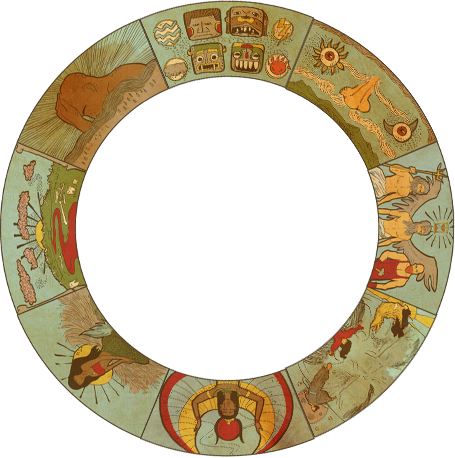
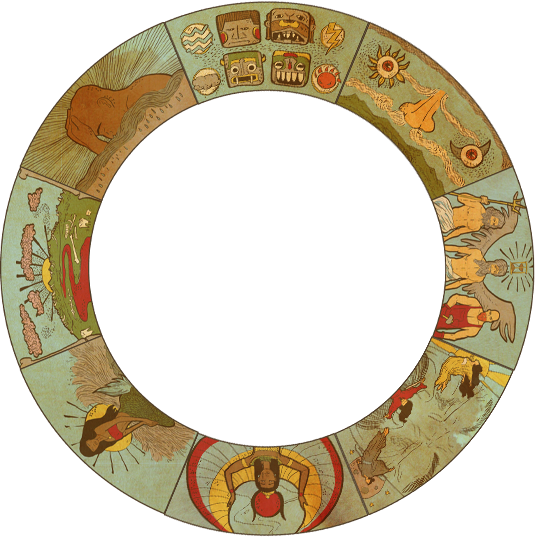
novas imagens das rodelas

diff --git a/index.html b/index.html
@@ -396,11 +396,11 @@ function getImageCentre( image ) {
   <div class="borda-superior"></div>
   <div id="lighttable">
     <div class="embaralhar"></div>
-    <img src="img/img01.png" alt="imagem01" width="886px" style="top:4px; left:0" />
-    <img src="img/img02.png" alt="imagem02" width="713px" style="top:90px; left:86px;" />
-    <img src="img/img03.png" alt="imagem03" width="534px" style="top:179px; left:176px;" />
-    <img src="img/img04.png" alt="imagem04" width="356px" style="top:268px; left:265px;" />
-    <img src="img/img05.png" alt="imagem05" width="178px" style="top:356px; left:354px;" />
+    <img src="img/rodela-5.png" alt="imagem01" style="top:4px; left:0" />
+    <img src="img/rodela-4.png" alt="imagem02" style="top:90px; left:86px;" />
+    <img src="img/rodela-3.png" alt="imagem03" style="top:178px; left:176px;" />
+    <img src="img/rodela-2.png" alt="imagem04" style="top:266px; left:265px;" />
+    <img src="img/rodela-1.png" alt="imagem05" style="top:355px; left:354px;" />
     <div class="centro"></div>
     <div class="mascara"></div>
     <a href="#" class="click01">0</a>
